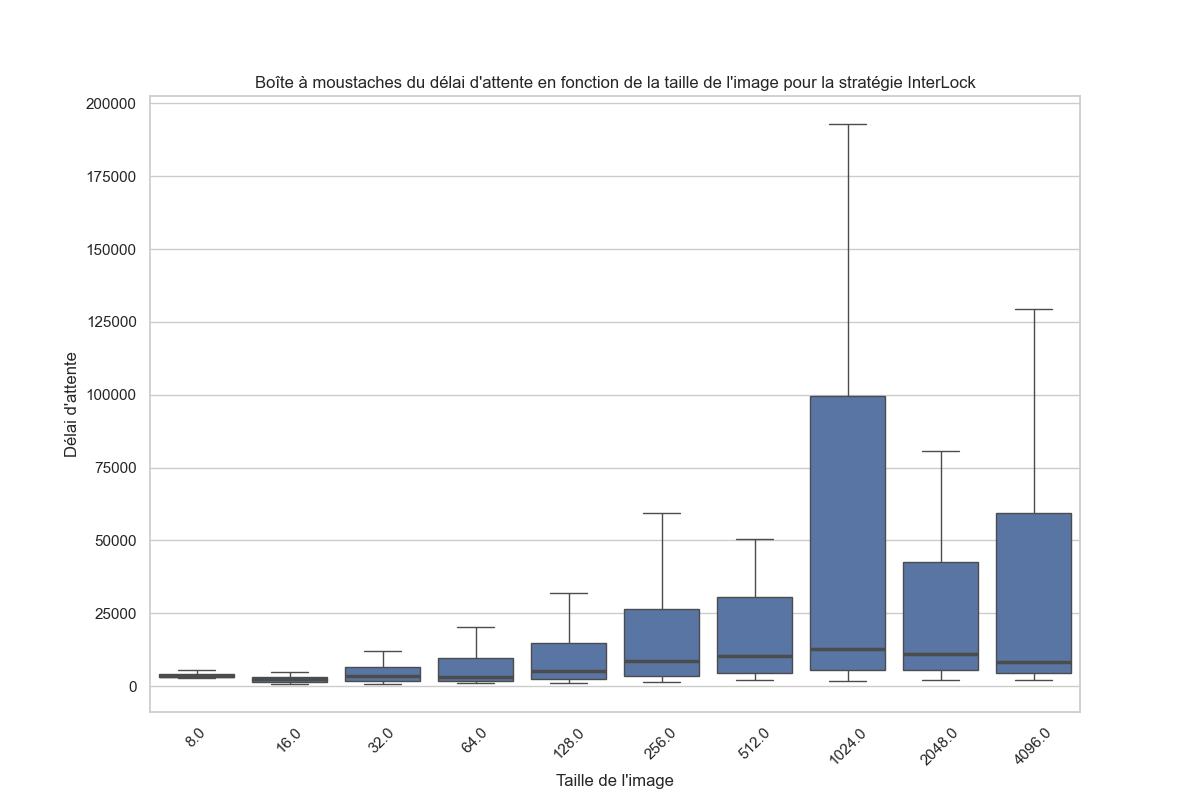
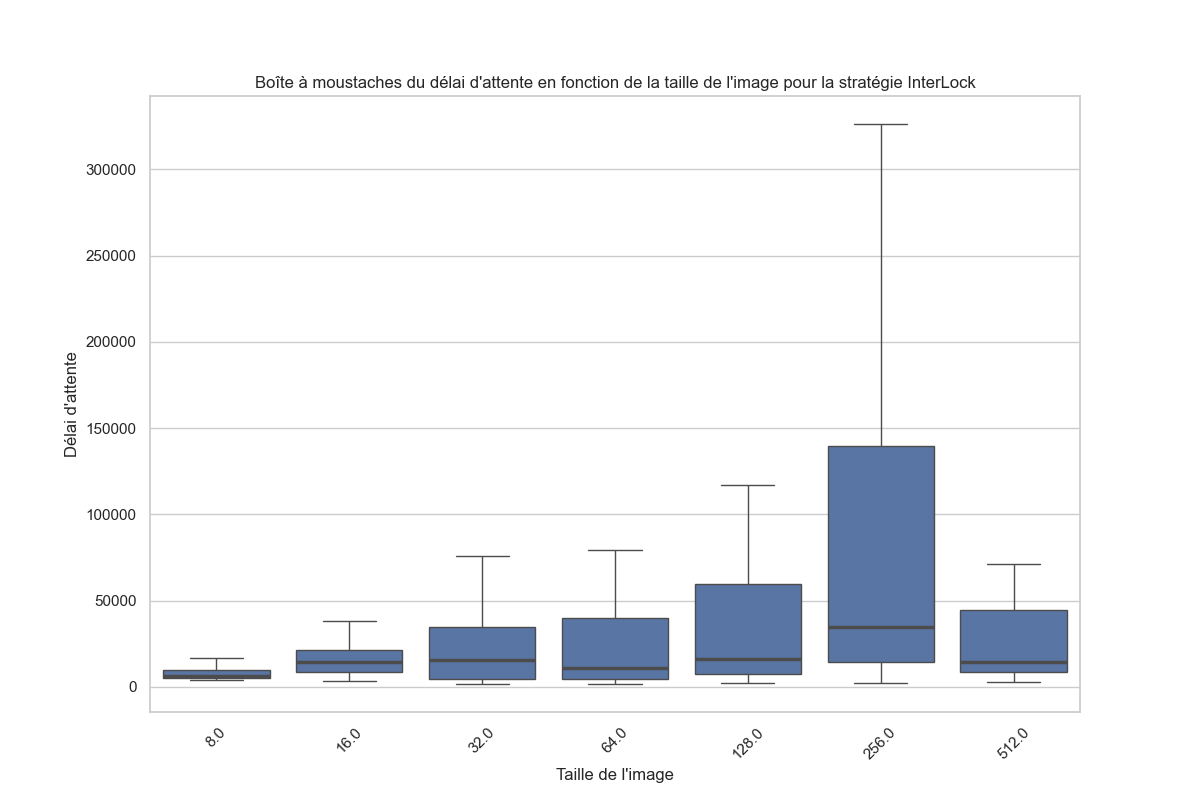
graph section critique

diff --git a/data/time/plot_CSTime_2.py b/data/time/plot_CSTime_2.py
@@ -1,0 +1,32 @@
+# coding=utf-8
+import seaborn as sns
+import matplotlib.pyplot as plt
+import numpy as np
+
+# Charger les données à partir du fichier
+data = np.loadtxt('testImgSize_timeCS2.txt')
+
+# Séparer les données en taille de l'image et valeurs de délai
+sizes = data[:, 0]  # Première colonne : taille de l'image
+delays = data[:, 1:]  # Les colonnes restantes : valeurs de délai
+
+# Créer un DataFrame avec les données
+import pandas as pd
+df = pd.DataFrame(delays)
+
+df['Image Size'] = sizes
+
+df_long = pd.melt(df, id_vars=['Image Size'], value_name='Delay')
+
+# Tracer les boîtes à moustaches avec Seaborn
+plt.figure(figsize=(12, 8)) 
+sns.set(style="whitegrid")
+# Pour afficher les données aberrantes, enlever showfliers=False
+sns.boxplot(data=df_long, x='Image Size', y='Delay', showfliers=False, medianprops={'linewidth': 2.5})
+plt.xlabel('Taille de l\'image')
+plt.ylabel('Délai d\'attente')
+plt.title('Boîte à moustaches de la durée de la section critique en fonction de la taille de l\'image pour la stratégie InterLock')
+plt.xticks(rotation=45) 
+plt.savefig("../plot/time/imgCSInter.png")
+# À DÉCOMMENTER SI ON VEUT LE GRAPHIQUE À L'EXÉCUTION
+#plt.show()
